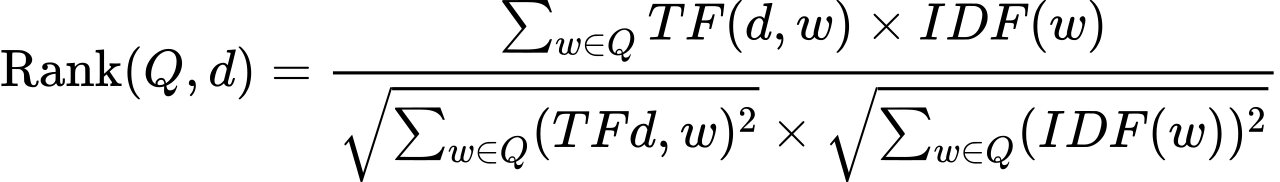
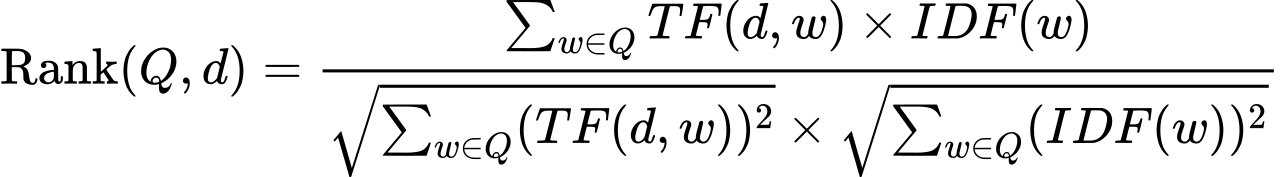
Fixed equation

diff --git a/README.md b/README.md
@@ -48,7 +48,7 @@ The documents are encrypted using Fernet's cipher. The cryptography key is store
 This project employees a TF-IDF based ranked searching algorithm. The similarity of a document to a query is computed by the rank function:
 
 <!-- $$
-\text{Rank}(Q, d) = \frac{\sum_{w \in Q} TF(d, w) \times IDF(w)}{\sqrt{\sum_{w \in Q} (TF{d, w})^2} \times \sqrt{\sum_{w \in Q} (IDF(w))^2}}
+\text{Rank}(Q, d) = \frac{\sum_{w \in Q} TF(d, w) \times IDF(w)}{\sqrt{\sum_{w \in Q} (TF({d, w}))^2} \times \sqrt{\sum_{w \in Q} (IDF(w))^2}}
 $$ -->
 
 <div align="center"><img src="assets/rank-function.jpg"></div>
